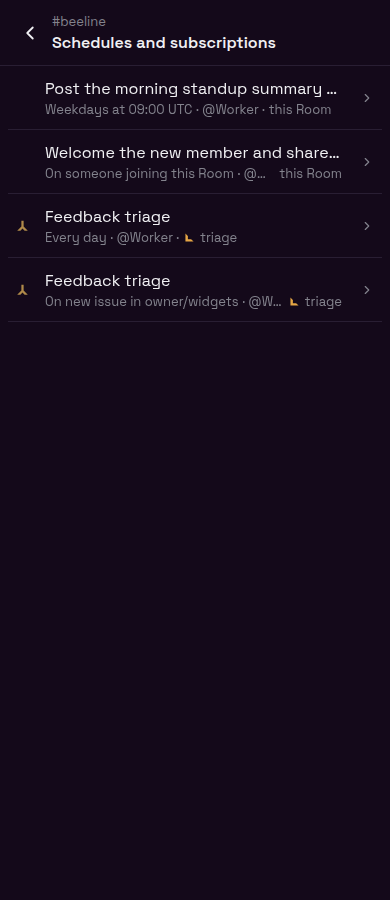
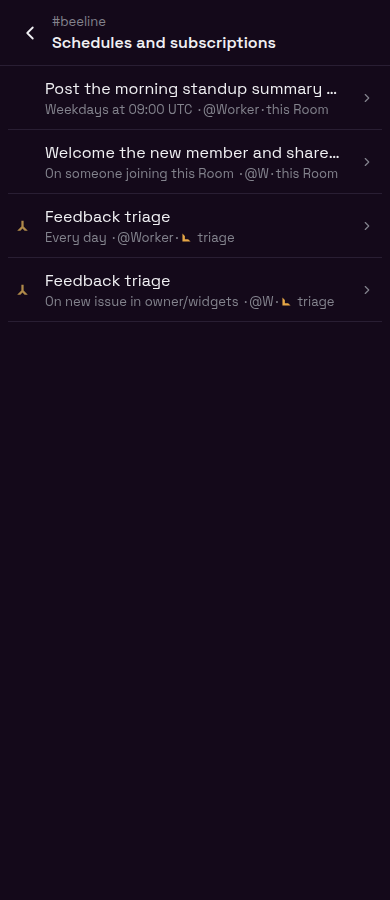
Carry subscription context into workflow details

diff --git a/apps/mobile/sources/app/(app)/beeline/workflow.tsx b/apps/mobile/sources/app/(app)/beeline/workflow.tsx
@@ -8,7 +8,8 @@ import { StyleSheet } from 'react-native-unistyles';
 import type { PhoneOperationMap } from '@beeline/api-contract/phone';
 import { workflowDisplayName } from '@/buzz/workflow-graph';
 import { workflowStarterLine } from '@/buzz/workflow-run-copy';
-import { scheduleRuns, scheduleWhere, stopSchedule, useScheduledWork } from '@/buzz/scheduled-work';
+import { scheduleRuns, scheduleWhere, stopSchedule, stopSubscription,
+  subscriptionRuns, subscriptionWhere, useScheduledWork } from '@/buzz/scheduled-work';
 import { PageHeader } from '@/components/buzz/PageHeader';
 import { DetailSection, ScheduledWorkFacts, StopScheduledWork } from '@/components/buzz/ScheduledWorkDetail';
 import { SurfaceGlyphLoader } from '@/components/buzz/SurfaceGlyphLoader';
@@ -18,9 +19,8 @@ import { monolithPhoneOperation } from '@/sync/transport/monolith-operation';
 /**
  * One workflow: its steps on the run page's rail (every step pending, as no
  * run is open here) and its runs, reached from a run's "All runs" link or
- * from a schedule. Opened from a schedule (`scheduleId`, listed under
- * `parentRoomId`), it also shows that schedule's Runs, Agent and Where rows
- * and its Stop.
+ * from scheduled work. Opened from a schedule or subscription listed under
+ * `parentRoomId`, it shows that trigger's When, Agent and Where rows and Stop.
  */
 export default function Workflow() {
   useLatencyRouteFrame('/beeline/workflow');
@@ -28,11 +28,13 @@ export default function Workflow() {
     roomId: string;
     name: string;
     scheduleId?: string;
+    subscriptionId?: string;
     parentRoomId?: string;
   }>();
   const roomId = Array.isArray(params.roomId) ? params.roomId[0] : params.roomId;
   const name = Array.isArray(params.name) ? params.name[0] : params.name;
   const scheduleId = Array.isArray(params.scheduleId) ? params.scheduleId[0] : params.scheduleId;
+  const subscriptionId = Array.isArray(params.subscriptionId) ? params.subscriptionId[0] : params.subscriptionId;
   const parentRoomId = Array.isArray(params.parentRoomId)
     ? params.parentRoomId[0]
     : params.parentRoomId;
@@ -55,17 +57,19 @@ export default function Workflow() {
       void reload();
     }, [reload]),
   );
-  const scheduled = useScheduledWork(scheduleId ? parentRoomId : undefined);
+  const scheduled = useScheduledWork(scheduleId || subscriptionId ? parentRoomId : undefined);
   const schedule = scheduled.work?.schedules.find((candidate) => candidate.id === scheduleId);
+  const subscription = scheduled.work?.subscriptions.find((candidate) => candidate.id === subscriptionId);
   const [stopping, setStopping] = useState(false);
   const stop = async () => {
-    if (!parentRoomId || !schedule) return;
+    if (!parentRoomId || (!schedule && !subscription)) return;
     setStopping(true);
     try {
-      await stopSchedule(parentRoomId, schedule.id);
+      if (schedule) await stopSchedule(parentRoomId, schedule.id);
+      else if (subscription) await stopSubscription(parentRoomId, subscription.id);
       router.back();
     } catch (caught) {
-      setError(`Could not stop the schedule: ${String(caught)}`);
+      setError(`Could not stop the ${schedule ? 'schedule' : 'subscription'}: ${String(caught)}`);
     } finally {
       setStopping(false);
     }
@@ -85,8 +89,9 @@ export default function Workflow() {
           </Text>
         </Pressable>
       ) : null}
-      {scheduleId && scheduled.error ? (
-        <Pressable onPress={scheduled.retry} testID="workflow-schedule-error">
+      {(scheduleId || subscriptionId) && scheduled.error ? (
+        <Pressable onPress={scheduled.retry}
+          testID={scheduleId ? 'workflow-schedule-error' : 'workflow-subscription-error'}>
           <Text accessibilityRole="alert" style={styles.error}>
             {scheduled.error} · Retry
           </Text>
@@ -104,6 +109,13 @@ export default function Workflow() {
               runs={scheduleRuns(schedule)}
               where={scheduleWhere(schedule)}
               whereCorner={schedule.corner}
+            />
+          ) : subscription ? (
+            <ScheduledWorkFacts
+              agents={[scheduled.work?.agentNames.get(subscription.agentId) ?? 'Agent']}
+              runs={subscriptionRuns(subscription)}
+              where={subscriptionWhere(subscription)}
+              whereCorner={subscription.corner}
             />
           ) : null}
           <DetailSection testID="workflow-steps-header" title="Steps" />
@@ -133,11 +145,11 @@ export default function Workflow() {
             </Pressable>
           ))}
           {!detail.runs.length ? <Text style={styles.description}>No runs yet.</Text> : null}
-          {schedule ? (
+          {schedule || subscription ? (
             <StopScheduledWork
-              label="Stop schedule"
+              label={schedule ? 'Stop schedule' : 'Stop subscription'}
               onStop={() => void stop()}
-              testID="stop-workflow-schedule"
+              testID={schedule ? 'stop-workflow-schedule' : 'stop-workflow-subscription'}
               working={stopping}
             />
           ) : null}

diff --git a/apps/mobile/sources/app/(app)/beeline/settings/schedules.tsx b/apps/mobile/sources/app/(app)/beeline/settings/schedules.tsx
@@ -55,9 +55,16 @@ export function orderScheduledWork(
   });
 }
 
-function ListTail({ agent, corner }: { agent: string; corner?: { id: string; name: string } | null }) {
+function ListTail({ agent, corner, compact }: {
+  agent: string;
+  corner?: { id: string; name: string } | null;
+  compact: boolean;
+}) {
+  const shownAgent = compact ? Array.from(agent)[0] ?? agent : agent;
   return <View style={styles.listTail}>
-    <Text numberOfLines={1} style={styles.listAgent}>· @{agent} ·</Text>
+    <Text style={styles.listDot}>·</Text>
+    <Text numberOfLines={1} style={styles.listAgent}>@{shownAgent}</Text>
+    <Text style={styles.listDot}>·</Text>
     <ScheduledWorkWhere corner={corner} />
   </View>;
 }
@@ -92,7 +99,8 @@ export default function ScheduledWork() {
     <SettingsRow
       chevron="right"
       description={`· @${work?.agentNames.get(schedule.agentId) ?? 'Agent'} · ${scheduleWhere(schedule)}`}
-      descriptionContent={<ListTail agent={work?.agentNames.get(schedule.agentId) ?? 'Agent'} corner={schedule.corner} />}
+      descriptionContent={<ListTail agent={work?.agentNames.get(schedule.agentId) ?? 'Agent'}
+        compact={scheduleCadenceLabel(schedule.cadence).length > 24} corner={schedule.corner} />}
       descriptionLead={scheduleCadenceLabel(schedule.cadence)}
       key={schedule.id}
       leading={<View style={styles.leadingSlot}>
@@ -110,7 +118,8 @@ export default function ScheduledWork() {
     <SettingsRow
       chevron="right"
       description={`· @${work?.agentNames.get(subscription.agentId) ?? 'Agent'} · ${subscriptionWhere(subscription)}`}
-      descriptionContent={<ListTail agent={work?.agentNames.get(subscription.agentId) ?? 'Agent'} corner={subscription.corner} />}
+      descriptionContent={<ListTail agent={work?.agentNames.get(subscription.agentId) ?? 'Agent'}
+        compact={subscriptionWhen(subscription).length > 24} corner={subscription.corner} />}
       descriptionLead={subscriptionWhen(subscription)}
       key={subscription.id}
       leading={<View style={styles.leadingSlot}>
@@ -180,7 +189,8 @@ const styles = StyleSheet.create((theme) => ({
   rows: { paddingHorizontal: theme.buzz.space.sm },
   leadingSlot: { width: CORNER_META_SIZE, alignItems: 'center', justifyContent: 'center' },
   workflowGlyph: { color: theme.buzz.accent },
-  listTail: { flex: 1, minWidth: 0, flexDirection: 'row', alignItems: 'center', gap: theme.buzz.space.xs },
+  listTail: { flex: 1, minWidth: 0, flexDirection: 'row', alignItems: 'center' },
+  listDot: { ...theme.buzz.type.meta, color: theme.buzz.textMuted, marginHorizontal: 2 },
   listAgent: { ...theme.buzz.type.meta, color: theme.buzz.textMuted, flexShrink: 1, minWidth: 0 },
   emptyBlock: { padding: theme.buzz.space.xl, alignItems: 'flex-start', justifyContent: 'center' },
   emptyIcon: { color: theme.buzz.accent },

diff --git a/apps/mobile/sources/app/(app)/beeline/settings/schedules.browser.test.ts b/apps/mobile/sources/app/(app)/beeline/settings/schedules.browser.test.ts
@@ -141,19 +141,19 @@ describe.skipIf(!existsSync(CHROME))('Schedules and subscriptions pages in a bro
     expect(page.text.slice(2)).toEqual([
       "Summarize yesterday's merged PRs for the Room…",
       'Weekdays at 09:00 UTC',
-      '· @Hoots ·',
+      '·', '@Hoots', '·',
       'this Room',
       'Triage incoming work',
       'On new pull request in owner/widgets',
-      '· @Ruby ·',
+      '·', '@R', '·',
       'this Room',
       'Feedback triage',
       'Daily at 14:00 America/New_York',
-      '· @Ruby ·',
+      '·', '@R', '·',
       'issues-triage',
       'Feedback triage',
       'On someone joining this Room',
-      '· @Ruby ·',
+      '·', '@R', '·',
       'issues-triage',
     ]);
     expect(page.glyphs).toEqual(['scheduled-work-glyph-video', 'subscription-glyph-sub-2']);
@@ -210,7 +210,8 @@ describe.skipIf(!existsSync(CHROME))('Schedules and subscriptions pages in a bro
       expect(page.detailAxis).toEqual([16, 16, 16, 16, 16, 16, 16]);
       expect(page.inputs).toContainEqual(['readWorkflowDefinition', { roomId: 'corner-1', name: 'feedback-triage' }]);
       if (pageName === 'subscription') expect(page.pushed).toContainEqual({
-        pathname: '/beeline/workflow', params: { roomId: 'corner-1', name: 'feedback-triage' },
+        pathname: '/beeline/workflow', params: { roomId: 'corner-1', name: 'feedback-triage',
+          parentRoomId: 'room-1', subscriptionId: 'sub-2' },
       });
       stopped(page, stop);
     }
@@ -267,6 +268,19 @@ describe.skipIf(!existsSync(CHROME))('Schedules and subscriptions pages in a bro
     expect(page.inputs).toContainEqual(['readWorkflowDefinition', { roomId: 'corner-1', name: 'feedback-triage' }]);
     stopped(page, 'deleteRoomSchedule');
     expect(page.inputs).toContainEqual(['deleteRoomSchedule', { roomId: 'room-1', scheduleId: 'video' }]);
+  }, 120_000);
+
+  it('keeps subscription facts and two-step Stop on the workflow page opened from Does', async () => {
+    const page = await proof('?page=workflow&roomId=corner-1&name=feedback-triage&subscriptionId=sub-2&parentRoomId=room-1');
+    expect(page.text).toEqual(expect.arrayContaining([
+      'When', 'On someone joining this Room', 'Agent', '@Ruby', 'Where', 'issues-triage',
+      'Steps', 'History', 'Stop subscription',
+    ]));
+    expect(page.steps.length).toBeGreaterThan(2);
+    expect(page.pendingCircles).toBe(page.allCircles);
+    expect(page.afterStop.slice(-2)).toEqual(['Confirm: Stop subscription', 'Cancel']);
+    stopped(page, 'deleteRoomSubscription');
+    expect(page.inputs).toContainEqual(['deleteRoomSubscription', { roomId: 'room-1', subscriptionId: 'sub-2' }]);
   }, 120_000);
 
   it('shows a failed schedule read on the workflow page, and Retry restores its rows and Stop', async () => {

diff --git a/apps/mobile/scripts/build-subscriptions-frame.ts b/apps/mobile/scripts/build-subscriptions-frame.ts
@@ -40,10 +40,11 @@ const shims: Record<string, string> = {
       const page = query.get('page');
       return {roomId:query.get('roomId') ?? 'room-1',workspaceId:'workspace-1',
         name:query.get('name') ?? 'feedback-triage',
-        scheduleId:page === 'schedule-workflow' ? 'schedule-workflow'
-          : page === 'schedule-prompt' ? 'schedule-prompt' : undefined,
-        subscriptionId:page === 'subscription-workflow' || page === 'stop-confirm' ? 'subscription-workflow'
-          : page === 'subscription-prompt' ? 'subscription-prompt' : undefined};
+        parentRoomId:query.get('parentRoomId') ?? undefined,
+        scheduleId:query.get('scheduleId') ?? (page === 'schedule-workflow' ? 'schedule-workflow'
+          : page === 'schedule-prompt' ? 'schedule-prompt' : undefined),
+        subscriptionId:query.get('subscriptionId') ?? (page === 'subscription-workflow' || page === 'stop-confirm' ? 'subscription-workflow'
+          : page === 'subscription-prompt' ? 'subscription-prompt' : undefined)};
     };
     export const router = {push:href=>{
       if (href.pathname !== '/beeline/workflow') return;
@@ -51,6 +52,9 @@ const shims: Record<string, string> = {
       next.searchParams.set('page','workflow-from-subscription');
       next.searchParams.set('roomId',href.params.roomId);
       next.searchParams.set('name',href.params.name);
+      if (href.params.parentRoomId) next.searchParams.set('parentRoomId',href.params.parentRoomId);
+      if (href.params.scheduleId) next.searchParams.set('scheduleId',href.params.scheduleId);
+      if (href.params.subscriptionId) next.searchParams.set('subscriptionId',href.params.subscriptionId);
       location.href = next.href;
     },replace:()=>undefined,back:()=>undefined};`,
   '@/sync/transport/monolith-operation': `export const monolithPhoneOperation = async name => {

diff --git a/apps/mobile/sources/components/buzz/ScheduledWorkDetail.tsx b/apps/mobile/sources/components/buzz/ScheduledWorkDetail.tsx
@@ -74,8 +74,11 @@ export function ScheduledWorkFacts({
 }
 
 /** The same action rail for timer and event triggers. */
-export function ScheduledWorkDoes({ roomId, prompt, workflowSlug }: {
+export function ScheduledWorkDoes({ roomId, parentRoomId, scheduleId, subscriptionId, prompt, workflowSlug }: {
   roomId: string;
+  parentRoomId?: string;
+  scheduleId?: string;
+  subscriptionId?: string;
   prompt: string;
   workflowSlug?: string;
 }) {
@@ -100,7 +103,12 @@ export function ScheduledWorkDoes({ roomId, prompt, workflowSlug }: {
             <SettingsRow
               chevron="right"
               description="Workflow"
-              onPress={() => router.push({ pathname: '/beeline/workflow', params: { roomId, name: workflowSlug } })}
+              onPress={() => router.push({ pathname: '/beeline/workflow', params: {
+                roomId, name: workflowSlug,
+                ...(parentRoomId ? { parentRoomId } : {}),
+                ...(scheduleId ? { scheduleId } : {}),
+                ...(subscriptionId ? { subscriptionId } : {}),
+              } })}
               testID="scheduled-work-workflow"
               title={workflowDisplayName(workflowSlug)}
             />

diff --git a/apps/mobile/scripts/scheduled-work-proof.tsx b/apps/mobile/scripts/scheduled-work-proof.tsx
@@ -85,7 +85,10 @@ async function run() {
     .map((node) => (node.querySelector('[dir=auto]') ?? node).getBoundingClientRect().x);
   for (const id of ['scheduled-work-daily', 'scheduled-work-video', 'subscription-sub-1', 'subscription-sub-2']) click(id);
   if (page === 'subscription') click('scheduled-work-workflow');
-  const stopId = page === 'subscription' ? 'stop-subscription' : page === 'workflow' ? 'stop-workflow-schedule' : 'stop-schedule';
+  const stopId = page === 'subscription' ? 'stop-subscription'
+    : page === 'workflow' ? new URLSearchParams(location.search).has('subscriptionId')
+      ? 'stop-workflow-subscription' : 'stop-workflow-schedule'
+      : 'stop-schedule';
   click(stopId);
   await pause();
   const afterStop = leaves().map((node) => node.textContent);

diff --git a/apps/mobile/sources/app/(app)/beeline/settings/subscription.tsx b/apps/mobile/sources/app/(app)/beeline/settings/subscription.tsx
@@ -68,7 +68,8 @@ export default function Subscription() {
             where={subscriptionWhere(subscription)}
             whereCorner={subscription.corner}
           />
-          <ScheduledWorkDoes roomId={subscription.roomId} prompt={subscription.prompt ?? 'React to this event.'}
+          <ScheduledWorkDoes roomId={subscription.roomId} parentRoomId={roomId}
+            subscriptionId={subscription.id} prompt={subscription.prompt ?? 'React to this event.'}
             workflowSlug={subscription.workflowSlug} />
           <View style={styles.stop}>
             <StopScheduledWork

diff --git a/apps/mobile/sources/app/(app)/beeline/settings/schedule.tsx b/apps/mobile/sources/app/(app)/beeline/settings/schedule.tsx
@@ -76,7 +76,8 @@ export default function PromptSchedule() {
             where={scheduleWhere(schedule)}
             whereCorner={schedule.corner}
           />
-          <ScheduledWorkDoes roomId={schedule.roomId} prompt={schedule.message} workflowSlug={schedule.workflowSlug} />
+          <ScheduledWorkDoes roomId={schedule.roomId} parentRoomId={roomId}
+            scheduleId={schedule.id} prompt={schedule.message} workflowSlug={schedule.workflowSlug} />
           <StopScheduledWork
             label="Stop schedule"
             onStop={() => void stop()}

diff --git a/evidence/subscriptions/README.md b/evidence/subscriptions/README.md
@@ -3,11 +3,12 @@
 These 390 × 900 frames render the real list and detail components with sample Room responses:
 
 - `main-baseline.png`: the merged main Schedules list rendered with the same font setup for comparison.
-- `list.png` and `list-light.png`: one flat list in dark and light mode. This Room's items come first, then each child corner; schedules sort by next run before subscriptions in each place. Line one ellipsizes the action; line two keeps the complete cadence or event and ellipsizes the agent and place tail. Corner places use a corner glyph and name. All rows stay 64 px tall.
+- `list.png` and `list-light.png`: one flat list in dark and light mode. This Room's items come first, then each child corner; schedules sort by next run before subscriptions in each place. Line one ellipsizes the action; line two keeps the cadence or event and shortens the agent handle when space is tight, preserving the place. Corner places use a corner glyph and name. All rows stay 64 px tall.
 - `schedule-prompt.png`, `schedule-workflow.png`, `subscription-prompt.png`, `subscription-workflow.png`: the common When, Agent, Where, Does, Stop detail grammar. Workflow actions show the saved steps on the workflow rail.
 - `stop-confirm.png`: the second step before stopping a subscription.
 - `empty.png`: first-use list.
-- `workflow-from-subscription.png`: the workflow page reached by tapping the workflow under Does on a subscription page.
+- `workflow-from-subscription.png`: the workflow page reached by tapping the workflow under Does on a subscription page, including its When, Agent, Where, and Stop subscription controls.
+- `workflow-subscription-stop-confirm.png`: the workflow page after the first Stop subscription tap, showing the second confirmation step.
 
 Rebuild the temporary page with `node --import tsx scripts/build-subscriptions-frame.ts` from `apps/mobile`. The page embeds the app's Space Grotesk and IBM Plex Mono font files, as the other mobile browser proofs do. Open `evidence/subscriptions/frame.html?page=list` at 390 × 900; add `&theme=light` for the light list. Change `page` to `schedule-prompt`, `schedule-workflow`, `subscription-prompt`, `subscription-workflow`, or `empty`. For the confirmation frame, open `?page=stop-confirm` and tap Stop subscription. To reach the workflow frame, open `?page=subscription-workflow` and tap the workflow under Does. Run the same command with `--main-baseline` to render the main-branch comparison. The generated HTML and bundles are omitted from the evidence.
 
